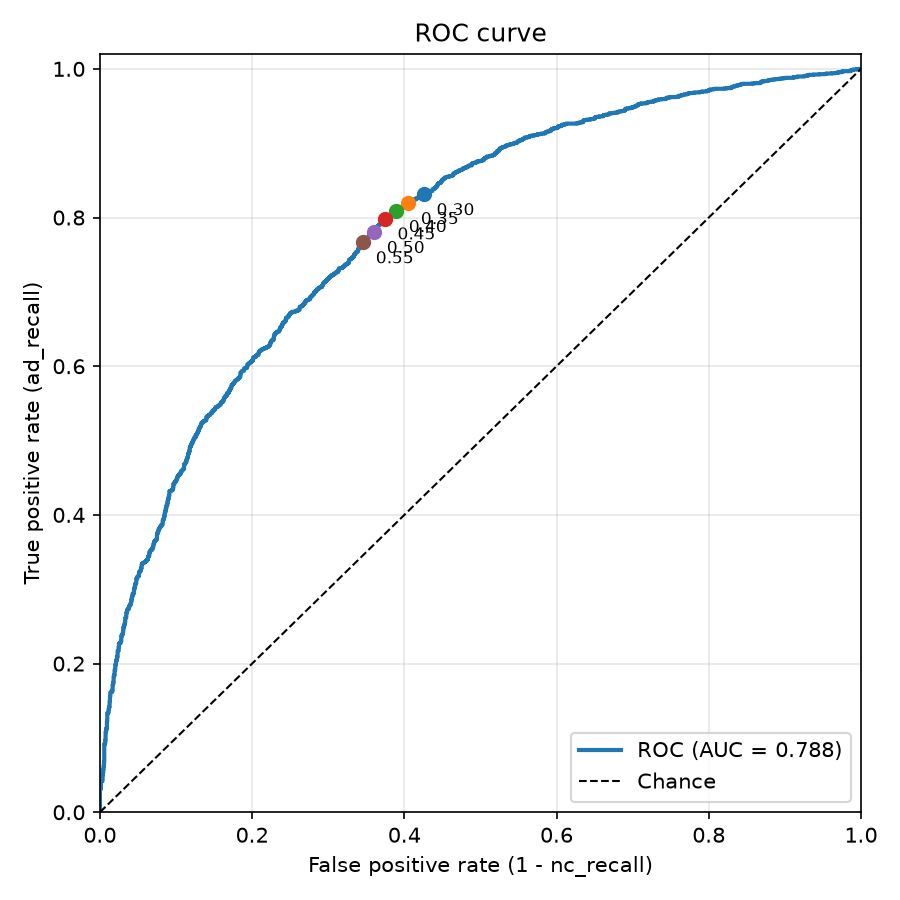
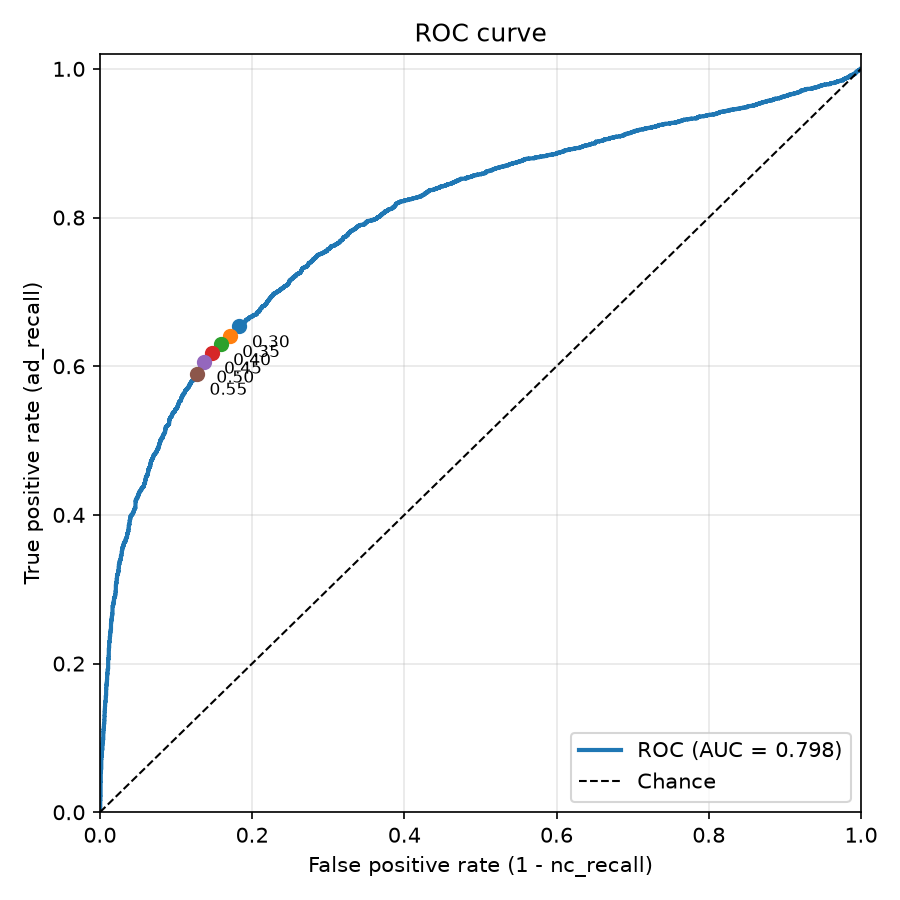
Added supplementary analysis files and images

Changed region(s): [[0.0933, 0.0622, 0.9644, 0.8711]]

diff --git a/recognition/ConvNeXt_48819101/failure_autopsy.py b/recognition/ConvNeXt_48819101/failure_autopsy.py
@@ -1,0 +1,42 @@
+import torch
+from dataset import get_dataloaders
+from modules import ConvNeXt
+ 
+CKPT = "convnext3.pt"
+PID = None  # patient ID as a string to inspect; None = the missed AD patient with the lowest mean P(AD)
+device = "cuda" if torch.cuda.is_available() else "cpu"
+ 
+ 
+def main():
+    model = ConvNeXt(num_classes=1).to(device)
+    model.load_state_dict(torch.load(CKPT, map_location=device, weights_only=True))
+    model.eval()
+ 
+    loader = get_dataloaders(num_workers=0)[2]  # test loader (not shuffled)
+    probs = []
+    with torch.no_grad():
+        for x, _ in loader:
+            probs += torch.sigmoid(model(x.to(device)).squeeze(1)).tolist()
+ 
+    # patient id -> [(slice number, P(AD), true label), ...]
+    patients = {}
+    for p, (path, label, pid) in zip(probs, loader.dataset.records):
+        patients.setdefault(pid, []).append((int(path.split("_")[-1].split(".")[0]), p, label))
+ 
+    mean = lambda pid: sum(s[1] for s in patients[pid]) / len(patients[pid])
+    missed = sorted((q for q in patients if patients[q][0][2] == 1 and mean(q) < 0.45), key=mean)
+    print(f"Missed AD patients (mean P(AD) < 0.5): {missed}")
+    avg_thing = 0
+    for i in range(len(missed)):
+        pid = PID or (missed[i] if missed else None)
+        if pid is None:
+            return
+        slices = sorted(patients[pid])
+        called_ad = sum(p >= 0.45 for _, p, _ in slices)
+        print(f"\nPatient {pid}: mean P(AD) {mean(pid):.3f}, {called_ad}/{len(slices)} slices called AD")
+        avg_thing += mean(pid)
+    print(f"Average mean P(AD) {avg_thing/len(missed)} Lowest P(AD) {mean(missed[0])}")
+ 
+ 
+if __name__ == "__main__":
+    main()

diff --git a/recognition/ConvNeXt_48819101/confidence_analysis.py b/recognition/ConvNeXt_48819101/confidence_analysis.py
@@ -1,0 +1,37 @@
+"""Confidence analysis: how confident is the model when it is right vs wrong?"""
+import torch
+from dataset import get_dataloaders
+from modules import ConvNeXt
+
+CKPT = "convnext3.pt"
+device = "cuda" if torch.cuda.is_available() else "cpu"
+
+
+def main():
+    model = ConvNeXt(num_classes=1).to(device)
+    model.load_state_dict(torch.load(CKPT, map_location=device, weights_only=True))
+    model.eval()
+
+    loader = get_dataloaders(num_workers=0)[2]  # test loader (not shuffled)
+    probs = []
+    with torch.no_grad():
+        for x, _ in loader:
+            probs += torch.sigmoid(model(x.to(device)).squeeze(1)).tolist()
+    labels = [r[1] for r in loader.dataset.records]
+
+    conf = [max(p, 1 - p) for p in probs]  # probability given to the predicted class
+    right = [int(p >= 0.5) == y for p, y in zip(probs, labels)]
+    c_right = [c for c, r in zip(conf, right) if r]
+    c_wrong = [c for c, r in zip(conf, right) if not r]
+    avg = lambda xs: sum(xs) / len(xs) if xs else float("nan")
+
+    acc, mean_conf = len(c_right) / len(right), avg(conf)
+    print(f"{len(right)} slices | accuracy {acc:.4f}")
+    print(f"mean confidence, all:     {mean_conf:.4f}  (confidence - accuracy = {mean_conf - acc:+.4f}, positive = overconfident)")
+    print(f"mean confidence, correct: {avg(c_right):.4f}  (n={len(c_right)})")
+    print(f"mean confidence, wrong:   {avg(c_wrong):.4f}  (n={len(c_wrong)})")
+    print(f"wrong predictions with confidence >= 0.9: {sum(c >= 0.9 for c in c_wrong)}")
+
+
+if __name__ == "__main__":
+    main()

diff --git a/recognition/ConvNeXt_48819101/random_image_predict.py b/recognition/ConvNeXt_48819101/random_image_predict.py
@@ -1,0 +1,42 @@
+import random
+import torch
+import matplotlib.pyplot as plt
+from PIL import Image
+
+from dataset import scan_split, ADNIDataset, class_to_idx
+from modules import ConvNeXt
+
+torch.backends.cudnn.enabled = False  # MIOpen workaround for Windows ROCm
+device = "cuda" if torch.cuda.is_available() else "cpu"
+
+def pred_to_class(number):
+    if number < 0.45:
+        return "NC"
+    return "AD"
+
+# Load the trained model
+model = ConvNeXt(num_classes=1)
+model.load_state_dict(torch.load("convnext3.pt", map_location=device))
+model.to(device).eval()
+
+# Pick a random test image
+record = random.choice(scan_split("test"))   # (path, label, patient_id)
+path, label, _ = record
+
+
+# Preprocess exactly as in training/testing, then predict
+x = ADNIDataset([record], img_size=224)[0][0].unsqueeze(0).to(device)
+with torch.no_grad():
+    output = model(x)
+    prob_ad = torch.sigmoid(output).item()
+pred = 1 if prob_ad >=0.45 else 0
+confidence = prob_ad if pred == 1 else 1 - prob_ad
+
+# Display
+plt.imshow(Image.open(path).convert("L"), cmap="gray")
+
+plt.axis("off")
+verdict = "Alzheimer's detected" if pred == 1 else "No Alzheimer's detected"
+plt.title(f"True: {pred_to_class(label)} | Predicted: {pred_to_class(pred)} ({confidence:.1%} confidence)\n{verdict}")
+plt.savefig("prediction.png")
+plt.show()
